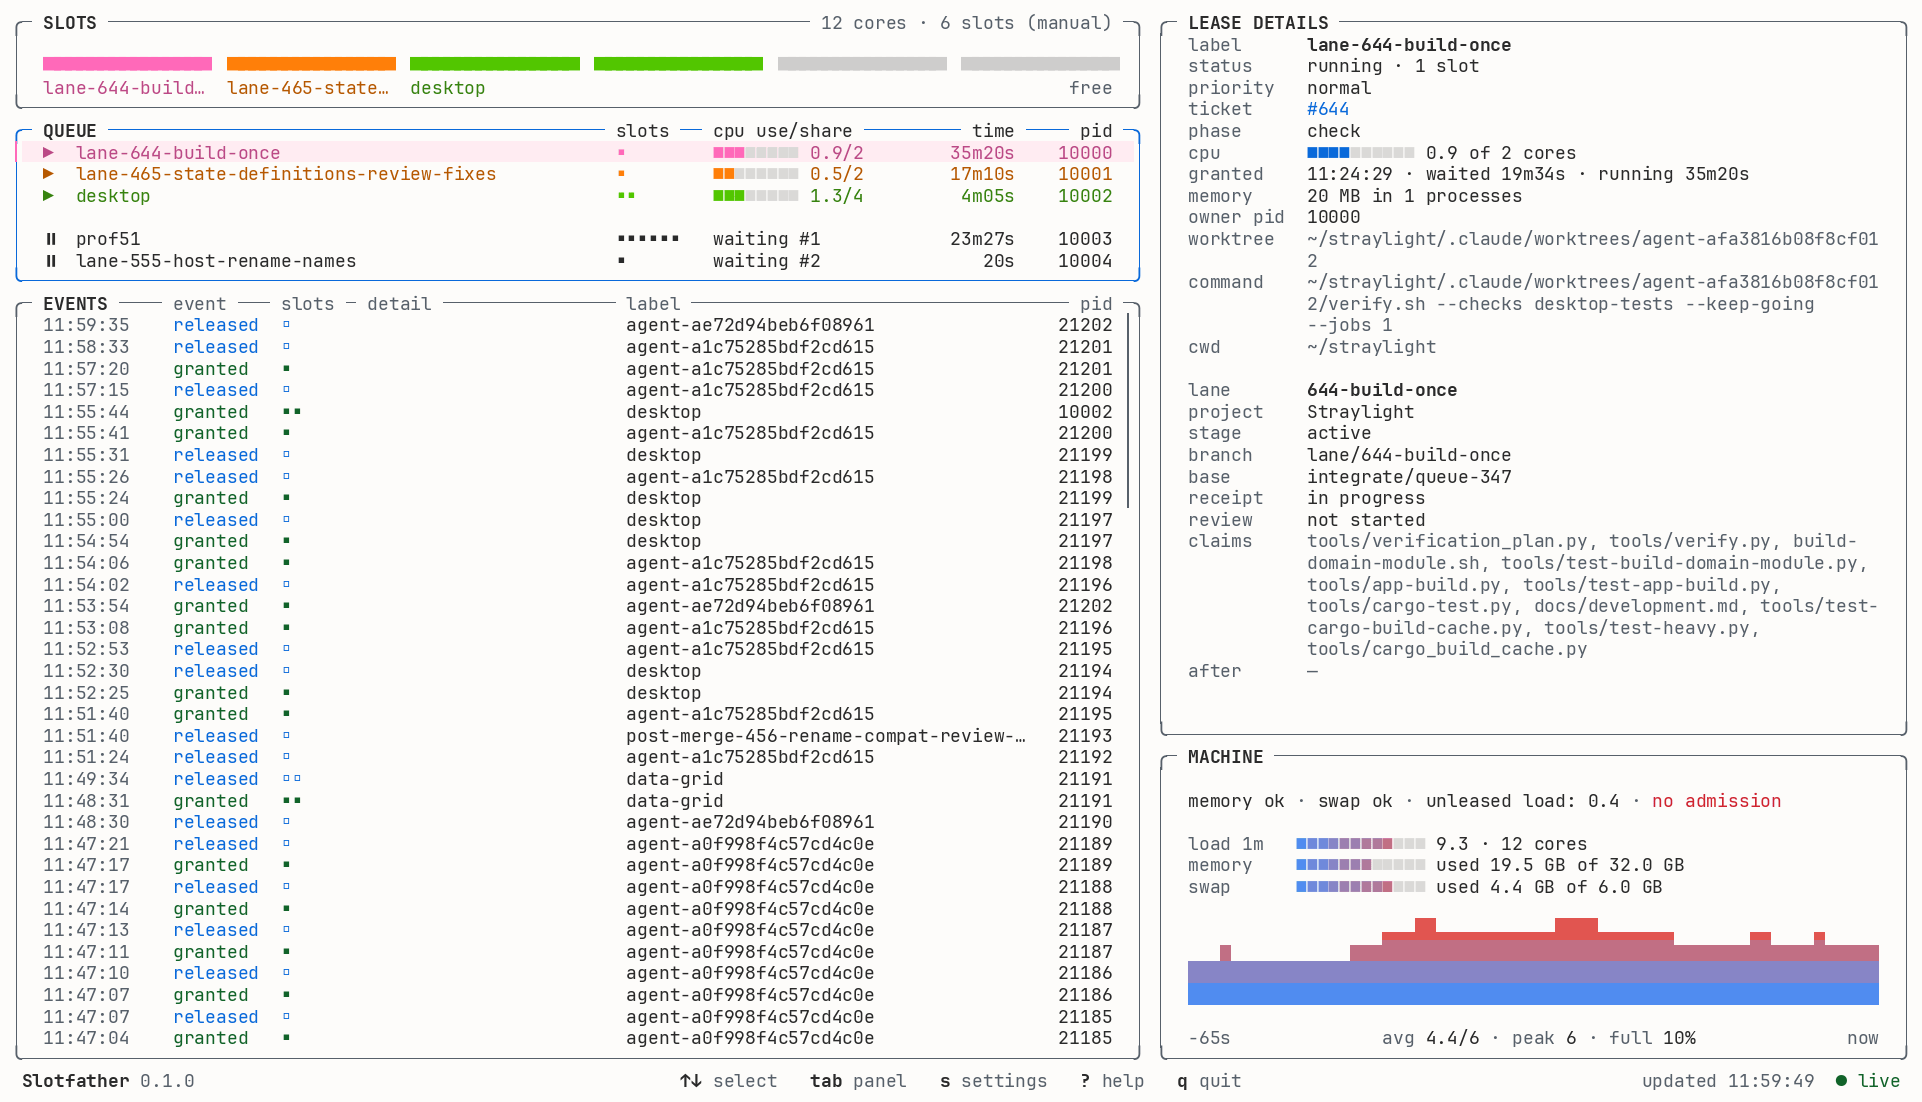
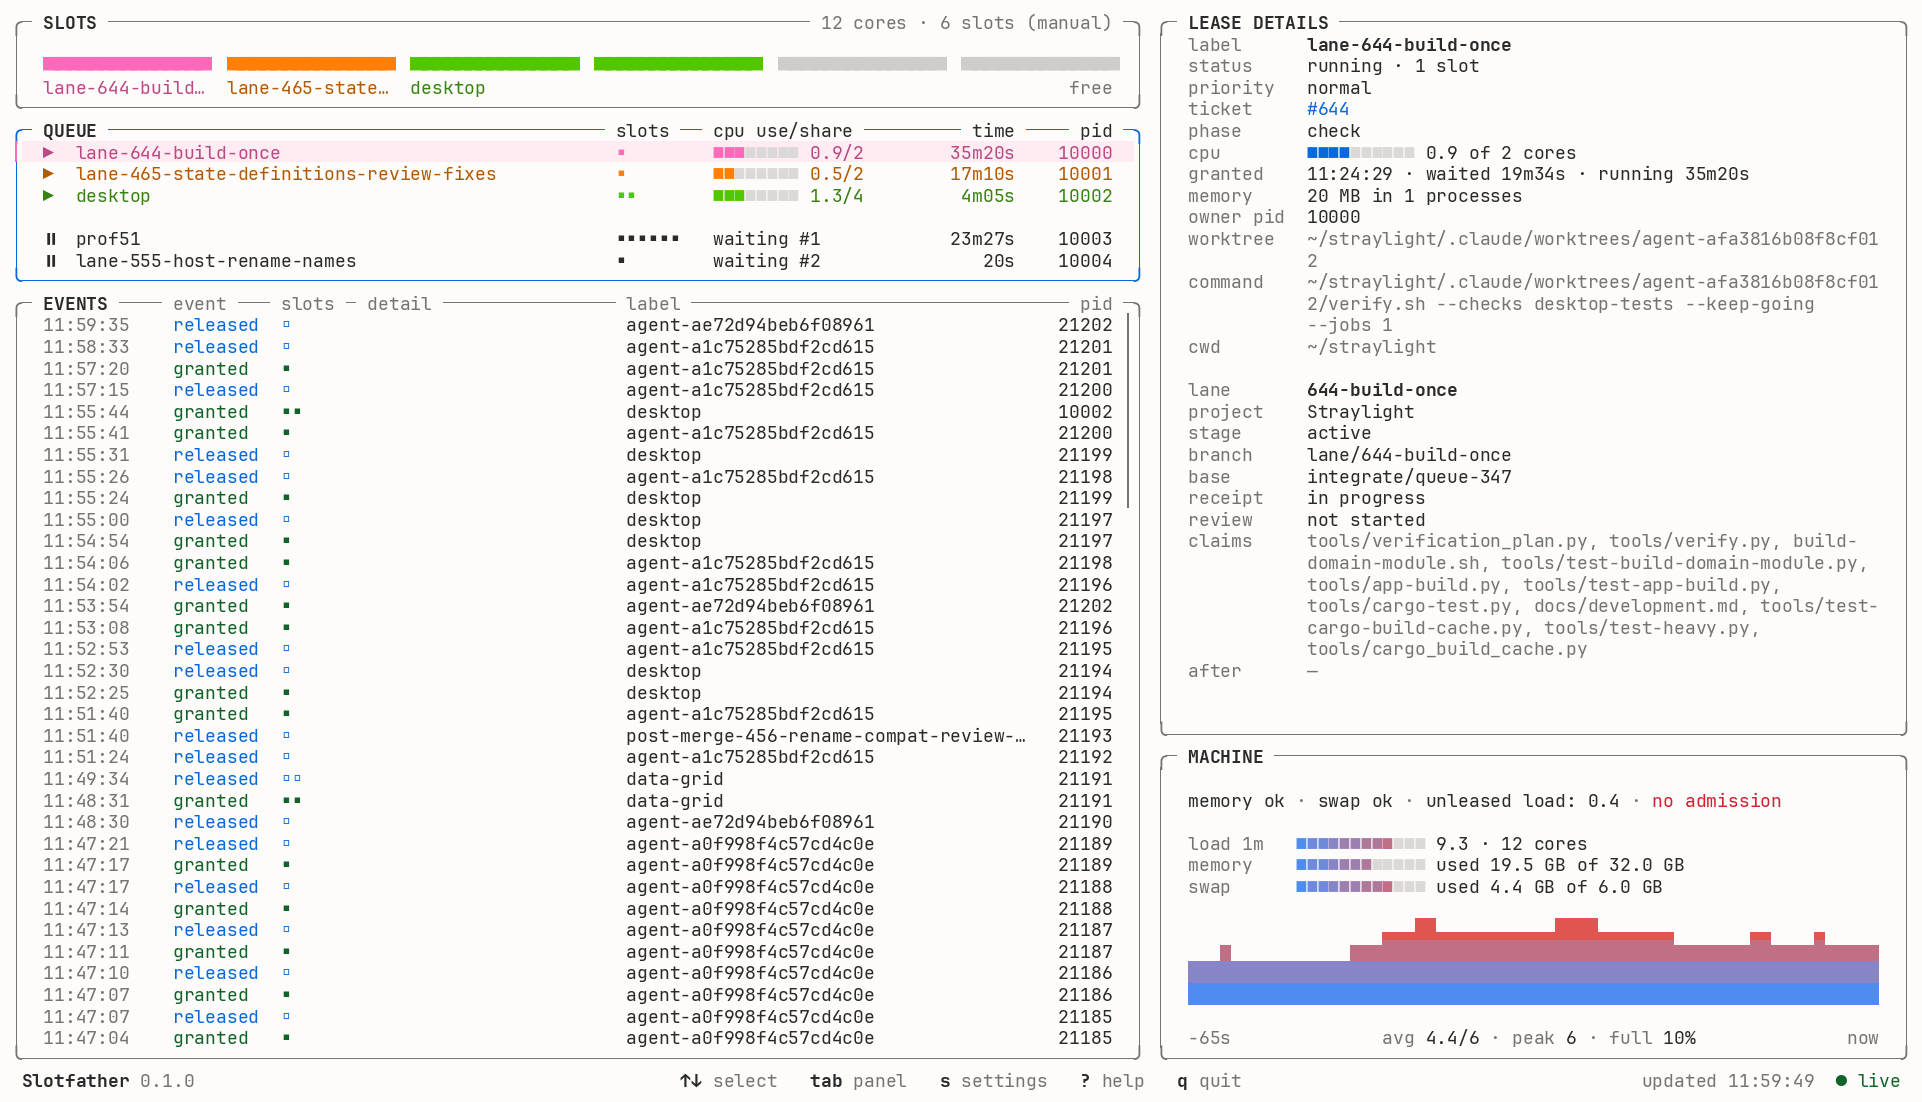
Muted text and frames from the theme's own fg and bg, readable at 4.5:1 (#14)
Bright black sits close to the background in many themes (Seti 1.5:1, One
Dark 2.3:1, Solarized Dark 1.0:1). Where the terminal reports its foreground
and background, the muted token (dim text and every frame) is 42% of the way
from fg to bg in OKLab, moved back toward fg until it reads at 4.5:1 and kept
at no more than 85% of fg's contrast. A theme whose fg itself reads under 4.5
(Solarized Light) keeps 85% of it. ANSI 8 stays without both colours and in
terminal mode; a colour-scheme switch recomputes it with the new answers.

diff --git a/slotfather/tests/test_theme.py b/slotfather/tests/test_theme.py
@@ -180,6 +180,72 @@ def cast_rgb(colour: Any) -> tuple[int, int, int]:
     return colour  # type: ignore[return-value]
 
 
+# Real themes' (foreground, background, bright black): Seti and Pro Light (iTerm2), One Dark, Solarized, Dracula,
+# GitHub Light Default
+MUTED_THEMES = {"Seti": hexes("#cacecd #111213 #323232"), "Pro Light": hexes("#191919 #ffffff #9f9f9f"),
+                "One Dark": hexes("#abb2bf #282c34 #5c6370"), "Solarized Dark": hexes("#839496 #002b36 #002b36"),
+                "Solarized Light": hexes("#657b83 #fdf6e3 #002b36"), "Dracula": hexes("#f8f8f2 #282a36 #6272a4"),
+                "GitHub Light": hexes("#1f2328 #ffffff #57606a")}
+
+
+class MutedTests(unittest.TestCase):
+    def test_muted_text_reads_on_every_theme_and_stays_dimmer_than_its_text(self) -> None:
+        for name, (fg, bg, bright_black) in MUTED_THEMES.items():
+            with self.subTest(name=name):
+                found = theme.resolve("auto", answered(fg=fg, bg=bg, p8=bright_black), {})
+                dim = cast_rgb(found.styles["dim"][0])
+                plain, muted = theme.contrast(fg, bg), theme.contrast(dim, bg)
+                self.assertLess(muted, plain - 0.1, "dimmer than the text")
+                if plain >= 4.5:
+                    self.assertGreaterEqual(muted, 4.5, f"{theme.contrast(bright_black, bg):.2f}:1 with bright black")
+                else:  # Solarized Light: its own text reads at 4.13:1; muted keeps about 85% of that, never more
+                    self.assertGreaterEqual(muted, 0.85 * plain)
+                if 0.85 * plain >= 4.5:
+                    self.assertLessEqual(muted, 0.85 * plain + 0.05, "visibly dimmer")
+                self.assertAlmostEqual(theme.distance(fg, bg), theme.distance(fg, dim) + theme.distance(dim, bg),
+                                       delta=0.01, msg="on the way from the theme's text to its background")
+
+    def test_bright_black_stays_where_a_colour_is_unknown_and_in_terminal_mode(self) -> None:
+        fg, bg, _ = MUTED_THEMES["Seti"]
+        self.assertEqual(8, theme.resolve("auto", answered(bg=bg), {}).styles["dim"][0], "no foreground")
+        self.assertEqual(8, theme.resolve("auto", answered(fg=fg), {}).styles["dim"][0], "no background")
+        self.assertEqual(8, theme.resolve("auto", theme.Answers(), {}).styles["dim"][0])
+        self.assertEqual(8, theme.resolve("terminal", answered(fg=fg, bg=bg), {}).styles["dim"][0])
+        self.assertEqual((245, "d"), theme.resolve("builtin", answered(fg=fg, bg=bg), {}).styles["dim"])
+        explicit = theme.resolve("auto", None, {"SLOTFATHER_TERMINAL_BG": "#111213", "SLOTFATHER_TERMINAL_FG": "#cacecd"})
+        self.assertEqual(theme.muted(fg, bg), explicit.styles["dim"][0], "the environment's colours too")
+
+    def test_a_scheme_switch_recomputes_it(self) -> None:
+        answers = answered(fg=MUTED_THEMES["Seti"][0], bg=MUTED_THEMES["Seti"][1])
+        dark = theme.resolve("auto", answers, {}).styles["dim"][0]
+        answers.feed("\x1b[?997;2n")  # the light scheme: the dashboard asks again and the answers replace these
+        for name, colour in (("10", MUTED_THEMES["Pro Light"][0]), ("11", MUTED_THEMES["Pro Light"][1])):
+            answers.feed(f"\x1b]{name};rgb:{colour[0]:02x}/{colour[1]:02x}/{colour[2]:02x}\x1b\\")
+        light = theme.resolve("auto", answers, {}).styles["dim"][0]
+        self.assertEqual(theme.muted(*MUTED_THEMES["Pro Light"][:2]), light)
+        self.assertNotEqual(dark, light)
+
+    def test_frames_and_muted_text_share_the_token(self) -> None:
+        tool = importlib.import_module("slotfather.dashboard")
+        before = tool.current_theme
+        try:
+            fg, bg, _ = MUTED_THEMES["Seti"]
+            tool.set_theme(theme.resolve("auto", answered(fg=fg, bg=bg), {}))
+            canvas = tool.Canvas(40, 6)
+            canvas.box(0, 0, 6, 40, "QUEUE", name="requests")  # unfocused: QUEUE is not the canvas's focus
+            canvas.focus = "details"
+            canvas.box(0, 0, 6, 40, "QUEUE", name="requests")
+            canvas.put(2, 3, "label", "dim")
+            self.assertEqual("dim", canvas.cells[3][0][1], "the frame")
+            line = canvas.lines(True)[2]
+            dim = cast_rgb(tool.current_theme.styles["dim"][0])
+            code = "\x1b[0;38;2;%d;%d;%dm" % dim
+            self.assertTrue(line.startswith(code + "│"), line[:40])
+            self.assertIn(code + "label", line, "muted text in the same colour")
+        finally:
+            tool.set_theme(before)
+
+
 class GradientTests(unittest.TestCase):
     def test_the_chart_runs_from_the_themes_blue_to_its_red_in_oklab(self) -> None:
         blue, red = (0x7A, 0xA6, 0xDA), (0xD5, 0x4E, 0x53)
@@ -499,8 +565,9 @@ class OnceTests(SlotCase):
             drawn = self.tool("dashboard", "--once", "--color", "--width", "140", "--height", "40", **environ).stdout
             for share in (theme.TRACK_MIX, theme.FREE_MIX):  # the bar tracks and the free slots
                 self.assertIn("\x1b[0;38;2;%d;%d;%dm" % theme.mix(bg, fg, share), drawn)
-            self.assertIn("\x1b[0;90m╭", drawn, "frames in the muted token")
-            self.assertIn("\x1b[0;90mstatus", drawn, "muted text in the same token")
+            muted = "\x1b[0;38;2;%d;%d;%dm" % theme.muted(fg, bg)  # ours, from the theme's own fg and bg
+            self.assertIn(muted + "╭", drawn, "frames in the muted token")
+            self.assertIn(muted + "status", drawn, "muted text in the same token")
         unknown = self.tool("dashboard", "--once", "--color", "--width", "140", "--height", "40")
         self.assertNotIn("48;2;", unknown.stdout, "nothing known: no background colour at all")
         self.assertIn("\x1b[0;1m", unknown.stdout)

diff --git a/slotfather/src/slotfather/theme.py b/slotfather/src/slotfather/theme.py
@@ -1,8 +1,9 @@
 """Dashboard colours from the terminal's own theme (#14), like CSS tokens with color-mix() for what it lacks.
 
 Tokens are palette indices or the terminal's default foreground, so they follow the theme live: text, bold, hotkeys,
-cursor and status use the default foreground (SGR 39); muted text and every frame share bright black (8), one token;
-ok, warn, bad and accent are ANSI green, yellow, red and blue. The surfaces the palette lacks (the selected row's
+cursor and status use the default foreground (SGR 39); ok, warn, bad and accent are ANSI green, yellow, red and blue.
+Muted text and every frame share one token: bright black (8), or, where the terminal reports its foreground and
+background, a mix of the two that reads at 4.5:1 and stays dimmer than the text (muted()). The surfaces the palette lacks (the selected row's
 background, a bar's track and a free slot) are mixed in OKLab from the background and foreground the terminal reports
 (OSC 10/11). Without a report COLORFGBG says light or dark; without that either, they are drawn with no background
 colour. Holder colours are ours: per holder a vivid fill (blocks, bars, the selection) and an ink of the same hue that
@@ -32,6 +33,9 @@ MODE_LABELS = {"auto": "Auto", "terminal": "Terminal", "builtin": "Built-in"}
 
 # Surfaces: the share of the foreground mixed into the background.
 SELECTION_MIX, TRACK_MIX, FREE_MIX = 0.10, 0.15, 0.20
+# Muted text and frames (owner, 2026-11-11): this share of the way from the foreground to the background, at least
+# MUTED_FLOOR against the background and at most MUTED_CAP of the foreground's own contrast
+MUTED_MIX, MUTED_FLOOR, MUTED_CAP = 0.42, 4.5, 0.85
 TINT_MIX = 0.16  # a selected running row's background: this much of its holder fill in the background (#15)
 TINT_KEEP = 0.9  # the share of its ink's contrast a tint keeps; a fill that would take more is mixed in less
 # Holder colours (owner, 2026-11-11, the "Neon" set): two tokens per holder. The fill paints what needs no text
@@ -436,6 +440,8 @@ def resolve(mode: str, answers: Optional[Answers] = None,
         ink = foreground or ((0, 0, 0) if light else (255, 255, 255))
         styles["track"] = (mix(background, ink, TRACK_MIX), "")
         styles["free"] = (mix(background, ink, FREE_MIX), "")
+        if foreground is not None:  # muted text and every frame: ours, not bright black, which many themes hide
+            styles["dim"] = (muted(foreground, background), "")
         selection: Optional[RGB] = mix(background, ink, SELECTION_MIX)
         tints = {f"h{n}": tint(background, holder.fill, holder.ink) for n, holder in enumerate(holders)}
     else:
@@ -443,6 +449,26 @@ def resolve(mode: str, answers: Optional[Answers] = None,
     styles.update({f"chart{n}": (colour, "") for n, colour in enumerate(chart_colours(mode, answers, background))})
     return Theme(mode, styles, selection, None, "■" if mixing else "░", "block" if mixing else "outline",
                  light, background, source, tints)
+
+
+def muted(foreground: RGB, background: RGB) -> RGB:
+    """Muted text and frames from the theme's own foreground and background: MUTED_MIX of the way from the foreground
+    to the background, moved back toward the foreground until it reads at MUTED_FLOOR, and toward the background
+    while it keeps more than MUTED_CAP of the foreground's contrast. A theme whose foreground itself reads under the
+    floor (Solarized Light) keeps the cap: dimmer than its text, never stronger."""
+    def reads(step: int) -> float:
+        return contrast(mix(foreground, background, step / 100), background)
+
+    plain = contrast(foreground, background)
+    # The floor wins over the cap where a theme cannot have both (Solarized Dark: its text reads at 4.75:1)
+    floor = MUTED_FLOOR if plain >= MUTED_FLOOR else MUTED_CAP * plain
+    cap = max(MUTED_CAP * plain, floor)
+    step = round(MUTED_MIX * 100)
+    while step > 0 and reads(step) < floor:
+        step -= 1
+    while step < 100 and reads(step) > cap and reads(step + 1) >= floor:
+        step += 1
+    return mix(foreground, background, step / 100)
 
 
 def tint(background: RGB, fill: RGB, ink: RGB) -> RGB:

diff --git a/slotfather/docs/dashboard.md b/slotfather/docs/dashboard.md
@@ -172,9 +172,14 @@ the history does not reach back.
 ## Colours
 
 The dashboard takes its colours from the terminal's theme (#14), so it reads on light and dark backgrounds alike.
-Text, bold, hotkeys, the cursor and the status line use the terminal's own foreground; muted text and every panel
-frame share one token, ANSI bright black; ok, warn and bad are ANSI green, yellow and red, and the accent is ANSI
-blue. They are palette entries, so they follow a theme change at once.
+Text, bold, hotkeys, the cursor and the status line use the terminal's own foreground; ok, warn and bad are ANSI
+green, yellow and red, and the accent is ANSI blue. They are palette entries, so they follow a theme change at once.
+Muted text and every panel frame share one token, which the dashboard derives itself where the terminal reports its
+foreground and background: 42% of the way from the foreground to the background in OKLab, moved back toward the
+foreground until it reads at 4.5:1, and kept at no more than 85% of the foreground's own contrast so it stays
+dimmer. Many themes put ANSI bright black close to their background (Seti: 1.5:1; One Dark: 2.3:1). Where the
+foreground itself reads under 4.5:1 (Solarized Light, 4.1:1) the muted token keeps 85% of it, dimmer than the text
+and never stronger. Without both colours, and in `Terminal` mode, it is ANSI bright black.
 
 What a palette lacks is mixed from the terminal's background and foreground, like `color-mix()` in OKLab: the
 selected row's background (10% foreground), a bar's empty track (15%) and a free slot (20%). Selected text keeps its

diff --git a/slotfather/CHANGELOG.md b/slotfather/CHANGELOG.md
@@ -25,6 +25,9 @@ Versions and release rules: [docs/agents/publishing.md](docs/agents/publishing.m
 
 ### Fixed
 
+- Muted text and panel frames are readable in themes whose bright black sits close to the background (Seti,
+  One Dark, Solarized Dark, Dracula): the dashboard mixes them from the theme's own text and background colours, at
+  4.5:1 or more and dimmer than the text, and recomputes them when the terminal switches between light and dark.
 - Settings: an arrow change still waiting to be saved is no longer saved over a capacity change made
   elsewhere meanwhile, nor under another capacity mode; the panel says the capacity changed instead.
 - Settings: a refused save when moving to another setting stays visible, and Esc on a panel too small to
@@ -110,6 +113,10 @@ Versions and release rules: [docs/agents/publishing.md](docs/agents/publishing.m
 - Smaller requests may pass a blocked waiter for a while.
 
 ### Fixed
+
+- Muted text and panel frames are readable in themes whose bright black sits close to the background (Seti,
+  One Dark, Solarized Dark, Dracula): the dashboard mixes them from the theme's own text and background colours, at
+  4.5:1 or more and dimmer than the text, and recomputes them when the terminal switches between light and dark.
 
 - A swap guard that serialised the whole queue.
 
